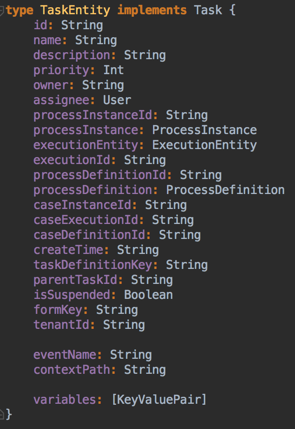
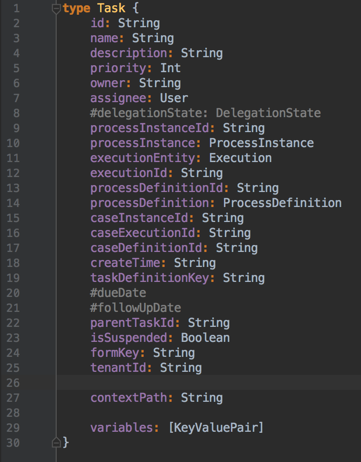
docs(readme): adapt to version 0.3.0, i.e. changed endpoint urls

Changed region(s): [[0.0, 0.0, 0.9763, 0.9697], [0.122, 0.9091, 0.7322, 0.9697]]

diff --git a/README.md b/README.md
@@ -10,7 +10,6 @@ Build the GraphQL server
 ------------------------
 1. Ckeckout or Clone this repository using Git<br>
 2. Adapt `src/main/resources/application.properties`: <br>
-For a quick test set `auth.Filter` to `NO`. (`JWT` is the default. Check the chapter Authorization)
 3. Build the project<br>
  for Apache Tomcat:     `mvn clean package`<br>
  for jboss wildfly use the profile wildfly:  `mvn clean package -Pwildfly`<br>
@@ -31,29 +30,38 @@ Build the `.war file with profile `wildfly`- see chapter 'Build' above.
 (Todo: One single installation procedure for all Servlet Container?)
    
    
-Test the Installation / submit queries and mutations
------------------------------------------------------
-- Open `http://<server-name>:<PORT>/graphql/?query={tasks{name}}` in your browser<br>
-  e.g. [http://localhost:8080/graphql/?query={tasks{name}}](http://localhost:8080/graphql/?query={tasks{name}})<br>
-  This will open [GraphiQL](https://github.com/graphql/graphiql), _an in-browser IDE for exploring GraphQL_,  with the query as defined in the URL<br>
+Test the Installation
+---------------------
+**Using the "naked" GraphQL endpoint with a Browser:**<br>
+- Open `http://<server-name>:<PORT>/camunda-graphql/graphql/?query={tasks{name}}` <br>
+  e.g. [http://localhost:8080/camunda-graphql/graphql/?query={tasks{name}}](http://localhost:8080/camunda-graphql/graphql/?query={tasks{name}})<br>
+  This will a JSON object with the names of the current tasks.<br>
+
+**Using GraphiQL** _an in-browser IDE for exploring GraphQL_<br>
+- Open `http://<server-name>:<PORT>/camunda-graphql/graphqil/` <br>
+  e.g. [http://localhost:8080/camunda-graphql/graphiql/](http://localhost:8080/camunda-graphql/graphiql/)<br>
+- Type a query on the left side, e.g. `{ tasks {id name}}`      
 - Klick the play-button<br>
-- On the right hand side you should see the response: all current tasks with their names
+- On the right hand side you should see the response of your query
 - Test other queries or mutations as defined in the GraphQL Schema
 - For examples on queries and mutations: see chapter below. 
    
 
-GraphQL clients
---------------- 
+Other GraphQL clients
+--------------------- 
 Beside the build-in GraphiQL you can use other GraphQL clients. <br>
 - just point your GraphQL client to the GraphQL server endpoint: `http://<server-name>:<PORT>/graphql` <br>
-  e.g. [http://localhost:8080/graphql/](http://localhost:8080/graphql/)<br>
+  e.g. [http://localhost:8080/camunda-graphql/graphql/](http://localhost:8080/camunda-graphql/graphql/)<br>
 - depending on the GraphQL server authentication settings you need to add Authentication Header to your requests
 
-You can explore GraphQL with one of these clients:<br>
+Examples of GraphQL clients:<br>
 
-   * https://github.com/redound/graphql-ide <br>
-   (Windows, Mac OS X - needs npm/yarn)
-   * https://github.com/skevy/graphiql-app <br>
+   * GraphQL IDE - An extensive IDE for exploring GraphQL API's<br>
+   Link: https://github.com/redound/graphql-ide<br>
+   (Windows, Mac OS X - needs npm/yarn)<br>
+   
+   * Light, Electron-based Wrapper around GraphiQL<br>
+   Link: https://github.com/skevy/graphiql-app <br>
    Mac User just type: `brew cask install graphiql`<br>
    Windows/Linux User:
      - `npm install -g electron` <br>
@@ -61,9 +69,6 @@ You can explore GraphQL with one of these clients:<br>
      - unzip
      - type in: `electron` _app-folder_ <br>
      with _app-folder_ = `GraphiQL.app/Contents/Resources/app` (unzipped from above)
-
-   * GraphiQL client: https://github.com/graphql/graphiql
-
    <br>
    
 
@@ -71,33 +76,38 @@ GraphQL Queries and Mutations
 -----------------------------
 
 
-**Tasks:**<br>
+**Query Tasks:**<br>
 
 ![query tasks](/src/main/resources/png/query_tasks.png?raw=true "GraphQL query for Tasks")
 
 
-**Tasks with a Filter:**<br>
+**Query Tasks using a Filter:**<br>
 
 ![query tasks with filter](/src/main/resources/png/query_tasks_w_filter_nameLike.png?raw=true "GraphQL query for Tasks with filter")
 
 
-**Process Instances:**<br>
+**Query Process Instances:**<br>
 
 ![query proceses](/src/main/resources/png/query_process_instances.png?raw=true "GraphQL query for Process Instances")
 
-**Process Instance Variables:**<br>
+**Query Process Instance Variables:**<br>
 
 ![query proceses with vars](/src/main/resources/png/query_process_instances_w_vars.png?raw=true "GraphQL query for Process Instances with Variables")
 
-**Task Variables:**<br>
+**Query Task Variables:**<br>
 
 ![query tasks with vars](/src/main/resources/png/query_tasks_w_vars.png?raw=true "GraphQL query for Process Instances with Variables")
 
 
-**Assign a task (it's called a "mutation")** <br>
+**Mutation**<br>
+**Assign a user to a task** <br>
 
-![setAssigne mutation](/src/main/resources/png/mutation_01.png?raw=true "simple GraphQL mutation")
+![setAssignee mutation](/src/main/resources/png/mutation_01.png?raw=true "simple GraphQL mutation")
 
+
+**Mutation**<br>
+**Start a Process Instance with start variables** <br>
+![startProcessInstance](/src/main/resources/png/mutation_startProcessInstance.png?raw=true "startProcessInstance")
 
 GraphQL Schemas and Types
 -------------------------
@@ -120,7 +130,7 @@ Defining / Extending the Camunda GraphQL Schema
 
 We decided to use the Schema Definition Language (a GraphQL DSL) to define the Camunda GraphQL schema instead of coding it in Java. <br>
 The Schema Definition Language is very easy to understand.<bR>
-For example this is the Type Definition of the Camunda Task Entity (as defined in summer 2017): <br><br>    
+For example this is the Type Definition of the Camunda Task: <br><br>    
 ![graphqls TaskEntity](/src/main/resources/png/schema_TaskEntity_graphqls.png?raw=true "graphqls TaskEntity")<br><br>
   
 To get an understanding of Schemas please visit: <bR>
@@ -243,7 +253,7 @@ query IntrospectionQuery {
   }
 ```
 <br><br>
-The **response** to the above Introspection Query can be pasted into tools like [GraphQL Voyager](https://apis.guru/graphql-voyager/) and within seconds you get a graphical representation of your Schema: <br><br>
+The **response** of the above Introspection Query can be pasted into tools like [GraphQL Voyager](https://apis.guru/graphql-voyager/) and within seconds you get a graphical representation of your Schema: <br><br>
 
 ![graphical GraphQL Schema](/src/main/resources/png/graphql_voyager.png?raw=true "graphical GraphQL Schema")<br>
 
